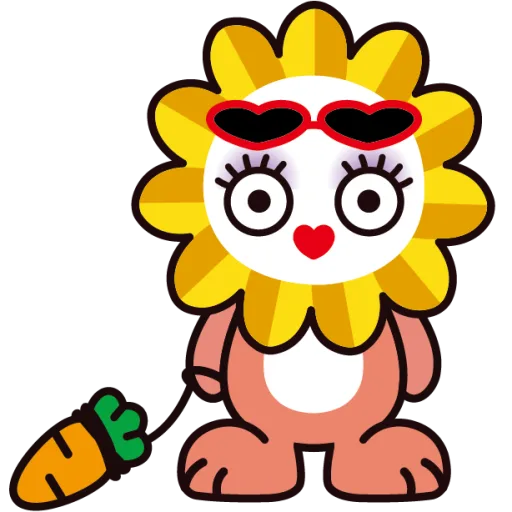
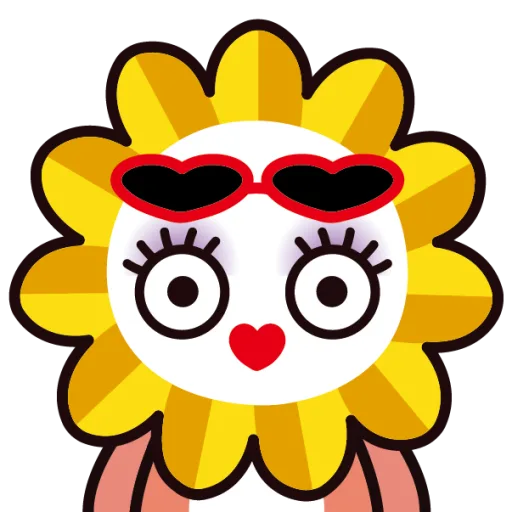
Replace montage game with Haepi faces

diff --git a/src/content/puzzles.test.ts b/src/content/puzzles.test.ts
@@ -18,20 +18,19 @@ describe("Picture Pieces scoring content", () => {
   });
 
   it("provides answer and distinct wrong variations for each montage character", () => {
-    expect(MONTAGE_CHARACTERS.map((character) => [character.name, character.variations.length])).toEqual([
-      ["Jaepi", 16],
-      ["Bbogles", 14],
-      ["Haepi", 17],
+    expect(MONTAGE_CHARACTERS.map((character) => [character.id, character.name, character.variations.length])).toEqual([
+      ["haepi", "Haepi", 20],
     ]);
     MONTAGE_CHARACTERS.forEach((character) => {
       expect(character.answer).toMatch(/answer.*\.webp/);
       expect(new Set(character.variations)).toHaveLength(character.variations.length);
       expect(character.variations).not.toContain(character.answer);
+      expect([character.answer, ...character.variations].every((url) => url.includes("/optimized/montage/haepi/"))).toBe(true);
     });
   });
 
   it("exposes every active game image once for splash-screen preloading", () => {
-    expect(GAME_IMAGE_URLS).toHaveLength(132);
+    expect(GAME_IMAGE_URLS).toHaveLength(103);
     expect(new Set(GAME_IMAGE_URLS)).toHaveLength(GAME_IMAGE_URLS.length);
     expect(GAME_IMAGE_URLS.every((url) => url.includes(".webp"))).toBe(true);
   });

diff --git a/src/content/puzzles.ts b/src/content/puzzles.ts
@@ -30,11 +30,7 @@ const pieceModules = import.meta.glob<string>(
 
 const unitPreviewModules = import.meta.glob<string>("/optimized/unit/*.webp", { eager: true, query: "?url", import: "default" });
 const montageModules = import.meta.glob<string>(
-  [
-    "/optimized/montage/jaepi/*.webp",
-    "/optimized/montage/bbogles/*.webp",
-    "/optimized/montage/haepi/*.webp",
-  ],
+  "/optimized/montage/haepi/*.webp",
   { eager: true, query: "?url", import: "default" },
 );
 
@@ -107,9 +103,7 @@ function montageCharacter(id: string, name: string, expectedVariations: number):
 }
 
 export const MONTAGE_CHARACTERS: readonly MontageCharacter[] = [
-  montageCharacter("jaepi", "Jaepi", 16),
-  montageCharacter("bbogles", "Bbogles", 14),
-  montageCharacter("haepi", "Haepi", 17),
+  montageCharacter("haepi", "Haepi", 20),
 ];
 
 export const GAME_IMAGE_URLS = [

diff --git a/docs/CUSTOMIZATION.md b/docs/CUSTOMIZATION.md
@@ -17,6 +17,7 @@ TAP to PICK은 TAPtoTALK의 화면 감각과 폰트를 유지하면서 이미지
 - JPG 파일은 정사각형 조각이어야 합니다.
 - 파일 추가·교체 뒤에는 `npm run build`로 Vite가 모든 이미지를 포함하는지 확인합니다.
 - 캐릭터 폴더를 추가하면 `src/content/puzzles.ts`의 glob 패턴과 캐릭터 목록을 함께 수정합니다.
+- 게임 2는 `해피-얼굴`의 정답과 바리에이션만 사용합니다. 런타임에는 `optimized/montage/haepi/answer.webp`와 `variation-*.webp`를 불러옵니다.
 
 ## 의존 방향
 
